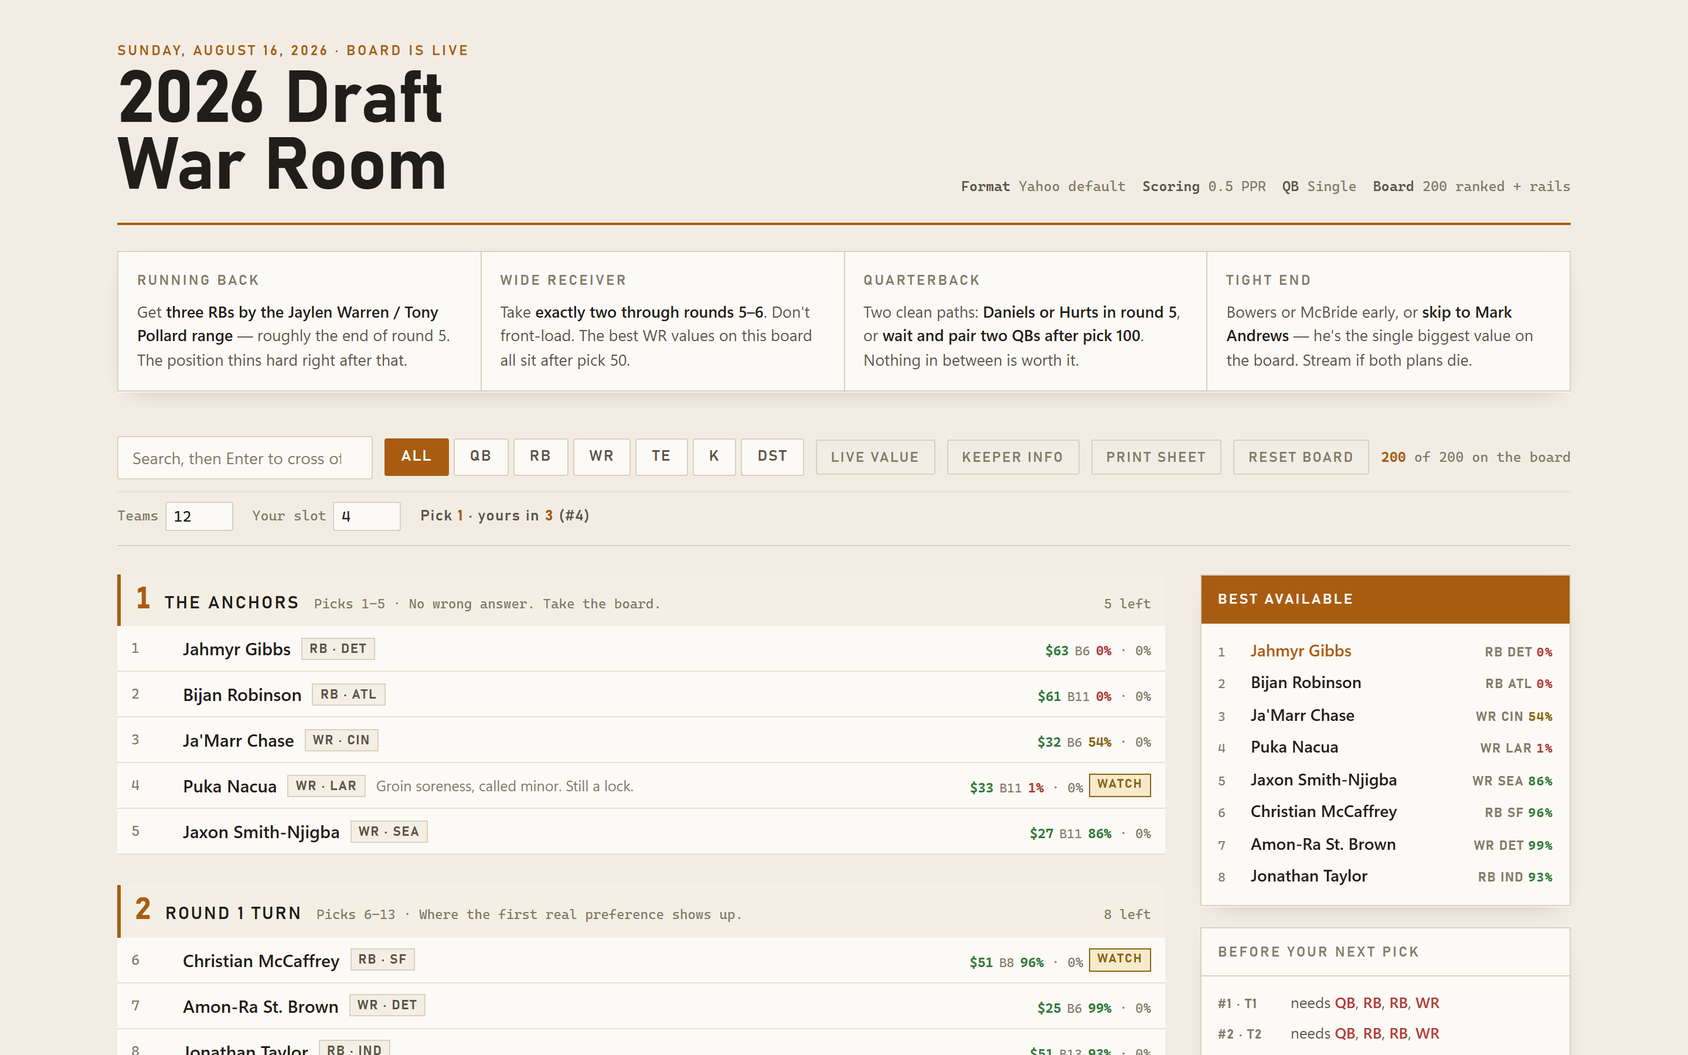
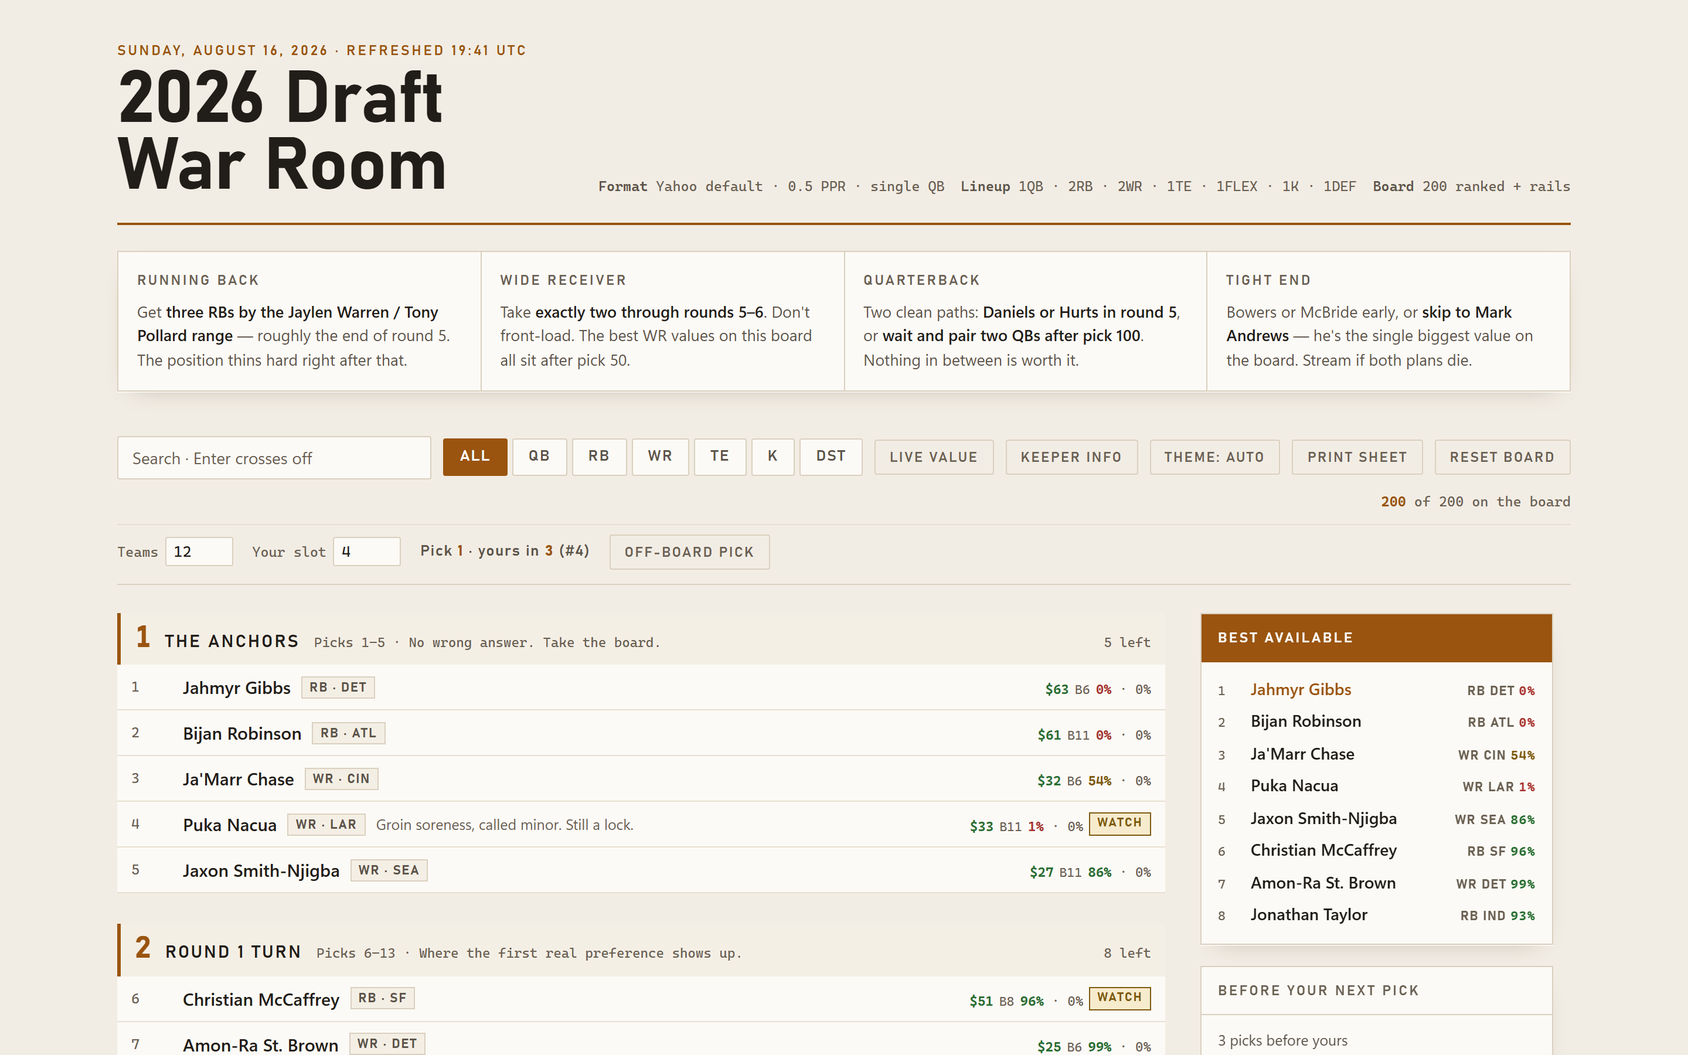
chore(release): v0.2.0

diff --git a/src/fantasyleague/assets/board.js b/src/fantasyleague/assets/board.js
@@ -347,24 +347,42 @@
     var rows = opponentNeeds(current, mine[0]);
     if (!rows.length) { card.hidden = true; return; }
     card.hidden = false;
-    // A position two or more managers still need is the one that will not last.
-    // Early on everyone needs everything, so a slot every listed manager wants
-    // says nothing — the warning is for contention, not for round one.
+    // What matters is how much competition there is for a position before your
+    // turn, not a dozen near-identical lineup dumps. Lead with the demand count;
+    // a position everyone still needs is round-one noise, so it is not a threat.
     var counts = {};
     rows.forEach(function (r) {
       r.open.forEach(function (slot) { counts[slot] = (counts[slot] || 0) + 1; });
     });
-    var contested = function (slot) { return counts[slot] >= 2 && counts[slot] < rows.length; };
-    document.getElementById("opponents").innerHTML = rows.map(function (r) {
+    var demand = Object.keys(counts)
+      .filter(function (slot) { return counts[slot] >= 2 && counts[slot] < rows.length; })
+      .sort(function (a, b) { return counts[b] - counts[a]; });
+    var contested = function (slot) { return demand.indexOf(slot) !== -1; };
+
+    var summary = '<div class="oppsum">' + rows.length + " pick" + (rows.length === 1 ? "" : "s") +
+      " before yours" +
+      (demand.length
+        ? " · " + demand.slice(0, 3).map(function (slot) {
+            return '<b class="hot">' + counts[slot] + " need " + slot + "</b>";
+          }).join(", ")
+        : "") +
+      "</div>";
+
+    var SHOWN = 6;
+    var lines = rows.slice(0, SHOWN).map(function (r) {
       var threat = r.open.some(contested);
       var shown = r.open.slice(0, 4).join("</b>, <b>");
-      var more = r.open.length > 4 ? " +" + (r.open.length - 4) + " more" : "";
+      var more = r.open.length > 4 ? " +" + (r.open.length - 4) : "";
       return '<div class="oppline' + (threat ? " threat" : "") + '">' +
         '<span class="who2">#' + r.pick + " · T" + r.slot + "</span>" +
         '<span class="needs2">' +
         (r.open.length ? "needs <b>" + shown + "</b>" + more : "lineup full") +
         "</span></div>";
-    }).join("");
+    });
+    if (rows.length > SHOWN) {
+      lines.push('<div class="oppmore">… and ' + (rows.length - SHOWN) + " more before your turn</div>");
+    }
+    document.getElementById("opponents").innerHTML = summary + lines.join("");
   }
 
   // Keeper value tracks the age curve: backs fall off a cliff around 28, receivers

diff --git a/src/fantasyleague/assets/board.css b/src/fantasyleague/assets/board.css
@@ -266,6 +266,14 @@ h1 {
 .oppline .needs2 { color: var(--ink-mid); }
 .oppline .needs2 b { color: var(--accent); font-weight: 600; }
 .oppline.threat .needs2 b { color: var(--avoid); }
+/* The headline: how many picks stand between you and your turn, and what they
+   are competing for. The per-pick lines below are the detail. */
+.oppsum {
+  font-size: 12.5px; color: var(--ink-mid); padding-bottom: 6px; margin-bottom: 2px;
+  border-bottom: 1px solid var(--line-soft);
+}
+.oppsum b.hot { color: var(--avoid); font-weight: 700; white-space: nowrap; }
+.oppmore { font-size: 12px; color: var(--ink-dim); padding-top: 2px; }
 .vor {
   font-family: var(--f-data); font-size: 11px; color: var(--accent);
   font-variant-numeric: tabular-nums; white-space: nowrap; font-weight: 700;

diff --git a/tests/test_browser.py b/tests/test_browser.py
@@ -23,14 +23,30 @@ def page_url(tmp_path_factory):
 
 
 @pytest.fixture(scope="module")
-def browser():
+def playwright_ctx():
+    """One sync_playwright context per module — the sync API forbids nesting them."""
     with playwright.sync_playwright() as p:
-        try:
-            b = p.chromium.launch()
-        except Exception as exc:  # noqa: BLE001 - any launch failure means skip
-            pytest.skip(f"chromium unavailable: {exc}")
-        yield b
-        b.close()
+        yield p
+
+
+@pytest.fixture(scope="module")
+def browser(playwright_ctx):
+    try:
+        b = playwright_ctx.chromium.launch()
+    except Exception as exc:  # noqa: BLE001 - any launch failure means skip
+        pytest.skip(f"chromium unavailable: {exc}")
+    yield b
+    b.close()
+
+
+@pytest.fixture(scope="module")
+def firefox(playwright_ctx):
+    try:
+        b = playwright_ctx.firefox.launch()
+    except Exception as exc:  # noqa: BLE001 - not installed is a skip, not a failure
+        pytest.skip(f"firefox unavailable: {exc}")
+    yield b
+    b.close()
 
 
 @pytest.fixture
@@ -628,6 +644,18 @@ def test_cli_settings_win_over_saved_ones_when_they_change(browser, tmp_path):
     ctx.close()
 
 
+def test_opponent_rail_leads_with_demand_and_caps_the_list(page):
+    """Twelve near-identical "needs QB, RB, RB, WR" lines is noise, not signal."""
+    page.locator("#slot").fill("4")
+    for rk in range(1, 9):
+        page.locator(f'.row[data-rk="{rk}"]').click()
+    page.wait_for_selector("#opponentcard:not([hidden])")
+    summary = page.locator("#opponents .oppsum").text_content()
+    assert "before yours" in summary
+    assert page.locator("#opponents .oppline").count() <= 6
+    assert page.locator("#opponents .oppmore").count() == 1
+
+
 def test_rail_marks_entries_that_have_no_row(page):
     """A late-round target below the board's depth can't be crossed off — say so."""
     tags = page.locator("#slp .offboard-tag")
@@ -795,32 +823,51 @@ def test_rail_clears_the_controls_and_scrolls_to_its_last_card(browser, page_url
     ctx.close()
 
 
-def test_board_works_in_a_second_engine(page_url):
+def test_board_works_in_a_second_engine(firefox, page_url):
     """Chromium-only testing would miss engine-specific breakage; Firefox is the check."""
-    with playwright.sync_playwright() as p:
-        try:
-            fx = p.firefox.launch()
-        except Exception as exc:  # noqa: BLE001 - not installed is a skip, not a failure
-            pytest.skip(f"firefox unavailable: {exc}")
-        ctx = fx.new_context(viewport={"width": 1280, "height": 900}, color_scheme="dark")
+    ctx = firefox.new_context(viewport={"width": 1280, "height": 900}, color_scheme="dark")
+    pg = ctx.new_page()
+    errors: list[str] = []
+    pg.on("pageerror", lambda e: errors.append(str(e)))
+    pg.goto(page_url)
+    pg.wait_for_selector(".row")
+    assert pg.locator(".row").count() == 200
+    pg.locator('.row[data-rk="1"]').click()
+    assert pg.locator(".row.gone").count() == 1
+    assert "Bijan" in pg.locator("#bestAvail").text_content()
+    pg.locator("#theme").click()
+    pg.locator("#theme").click()
+    assert pg.evaluate("() => document.documentElement.dataset.theme") == "light"
+    pg.reload()
+    pg.wait_for_selector(".row")
+    assert pg.locator(".row.gone").count() == 1, "state must survive a reload here too"
+    assert errors == []
+    ctx.close()
+
+
+def test_live_sync_works_in_a_second_engine(firefox):
+    """SSE and the same-origin POST guard, in an engine that always sends Origin."""
+    from fantasyleague import serve
+
+    with serve.BoardServer(board.load(), port=0, teams=12, slot=5) as s:
+        ctx = firefox.new_context(color_scheme="dark")
         pg = ctx.new_page()
         errors: list[str] = []
         pg.on("pageerror", lambda e: errors.append(str(e)))
-        pg.goto(page_url)
+        pg.goto(f"http://127.0.0.1:{s.port}/")
         pg.wait_for_selector(".row")
-        assert pg.locator(".row").count() == 200
-        pg.locator('.row[data-rk="1"]').click()
-        assert pg.locator(".row.gone").count() == 1
-        assert "Bijan" in pg.locator("#bestAvail").text_content()
-        pg.locator("#theme").click()
-        pg.locator("#theme").click()
-        assert pg.evaluate("() => document.documentElement.dataset.theme") == "light"
-        pg.reload()
-        pg.wait_for_selector(".row")
-        assert pg.locator(".row.gone").count() == 1, "state must survive a reload here too"
+        pg.wait_for_selector("#livepill:not([hidden])", timeout=5000)
+        s.bus.pick(3, source="sleeper")
+        pg.wait_for_selector('.row[data-rk="3"].gone', timeout=5000)
+        pg.locator('.row[data-rk="9"]').click()
+        pg.wait_for_function("() => true")
+        for _ in range(50):
+            if any(p["rank"] == 9 for p in s.bus.state()["picks"]):
+                break
+            pg.wait_for_timeout(100)
+        assert any(p["rank"] == 9 for p in s.bus.state()["picks"]), "same-origin POST was refused"
         assert errors == []
         ctx.close()
-        fx.close()
 
 
 def _mine_label(page) -> str:

diff --git a/src/fantasyleague/__init__.py b/src/fantasyleague/__init__.py
@@ -1,5 +1,5 @@
 """FantasyLeagueFootball — a draft-day board for Yahoo half-PPR fantasy football."""
 
-__version__ = "0.1.0"
+__version__ = "0.2.0"
 
 __all__ = ["__version__"]

diff --git a/README.md b/README.md
@@ -1,15 +1,15 @@
 # FantasyLeagueFootball
 
-[![Version](https://img.shields.io/badge/version-0.1.0-E8963C.svg)](CHANGELOG.md)
+[![Version](https://img.shields.io/badge/version-0.2.0-E8963C.svg)](CHANGELOG.md)
 [![License](https://img.shields.io/badge/license-MIT-blue.svg)](LICENSE)
 [![Python](https://img.shields.io/badge/python-3.11%2B-3776AB.svg)](pyproject.toml)
 [![Platform](https://img.shields.io/badge/platform-Windows%20%7C%20macOS%20%7C%20Linux-lightgrey.svg)](#install)
-[![Tests](https://img.shields.io/badge/tests-191%20passing-6FBF73.svg)](tests/)
+[![Tests](https://img.shields.io/badge/tests-282%20passing-6FBF73.svg)](tests/)
 [![Dependencies](https://img.shields.io/badge/runtime%20deps-0-6FBF73.svg)](pyproject.toml)
 
 A draft-day board for **Yahoo half-PPR fantasy football**. Renders one self-contained HTML page you keep open on a second screen while you draft — click players off as they go, watch tiers drain, and get warned the moment a tier is about to break.
 
-Ships with a ranked 2026 board — 200 players in 12 tiers — with value/reach flags, a do-not-draft list, a training-camp injury board, and late-round targets. Zero runtime dependencies. No account, no network calls, no telemetry — the page works from `file://` with the Wi-Fi off.
+Ships with a ranked 2026 board — 200 players in 12 tiers — with value/reach flags, a do-not-draft list, a training-camp injury board, and late-round targets. Zero runtime dependencies, no account, no telemetry. The rendered page makes no network calls at all — it works from `file://` with the Wi-Fi off. Only the commands that fetch data (`refresh`, `tiers`, `variant`, `serve --sleeper`) talk to the internet, and all of them use public APIs with no key.
 
 ![Draft board, dark theme](docs/screenshot-dark.png)
 
@@ -19,26 +19,31 @@ Rankings sites give you a list. A list doesn't answer the only question that mat
 
 ![Mid-draft: live value, keeper ages, auction prices, and the managers picking before you](docs/screenshot-mid-draft.png)
 
+On a phone the readouts you need on the clock — best available, your roster, who picks before you — sit above the board rather than below two hundred rows:
+
+![The board on a phone](docs/screenshot-phone.png)
+
 ## Features
 
-- **One file, works offline.** `fantasyleague build` writes `dist/draft-board.html` (~37 KB) with all CSS/JS inlined and the dataset embedded. Open it anywhere.
+- **One file, works offline.** `fantasyleague build` writes `dist/draft-board.html` (~140 KB) with all CSS/JS inlined and the dataset embedded. Open it anywhere.
 - **Click to cross off.** Every row is a button. State is saved in the browser as an ordered pick log, so a refresh mid-draft doesn't lose your place. Every action — including Reset — shows a toast with **Undo**.
-- **Your roster.** Claim your picks (automatic once the board knows your slot) and a rail card fills Yahoo's default lineup, tells you what's still open, and warns when three of your players share a bye week.
+- **Your roster.** Claim your picks (automatic once the board knows your slot) and a rail card fills the lineup your board is built for — Yahoo's default, or two QB slots on a superflex board — tells you what's still open, and warns when three of your players share a bye week. In live mode the claim lives on the server, so a reload or a dropped connection doesn't lose it.
 - **Run detection.** Three of the last four picks at one position marks that position's chip with *run* — the moment to decide whether to join it or let it pass.
 - **Tier-break warnings.** Each tier header shows how many are left and lights up at two.
 - **Best available** updates as you go, overall or filtered to one position.
 - **Will he last?** Enter your league size and slot and every player shows the odds of surviving to your next two picks (`73% · 4%`), banded *wait* / *toss-up* / *now*. The controls bar tracks the pick on the clock and how far away yours is.
-- **Position filters (QB/RB/WR/TE/K/DST) + name search** so you can answer "best RB left?" in one tap. Type a name and press Enter to cross off the match without touching the mouse.
+- **Position filters (QB/RB/WR/TE/K/DST) + name search** so you can answer "best RB left?" in one tap. Punctuation is ignored, so "jamarr" finds Ja'Marr Chase. Type a name and press Enter to cross off the match without touching the mouse.
 - **Live value.** One toggle re-sorts each tier by value over replacement against the remaining pool — the number that actually moves when a position dries up.
 - **Before your next pick.** Every manager drafting ahead of you, and the slots they still need. Two of them needing the same position is your warning.
 - **Keeper info** toggle showing age and experience, coloured against each position's age cliff — the context a keeper or dynasty league drafts on.
 - **Auction values** on every row, priced from real projections against your budget — VBD over a bench-depth baseline so the money spreads the way a real auction does.
 - **Value / Reach / Watch flags** on rows — Yahoo ADP versus Yahoo's own projected finish, plus active injury notes.
 - **Rails:** positional plan for the draft, do-not-draft list with reasons, injury board with severity, trending adds from the last 24 hours, late-round targets.
-- **Refreshable.** `fantasyleague refresh` pulls current ADP, bye weeks, injury designations, and trending adds — no key, cached for a day, degrades to cache offline.
-- **Dark-first, light-aware.** Follows `prefers-color-scheme` and honors an explicit `data-theme` toggle. Reduced-motion respected. Focus states and `aria-pressed` on every control; a polite live region announces cross-offs, best available, and tier breaks to screen readers.
+- **Refreshable.** `fantasyleague refresh` pulls current ADP, bye weeks, season projections, auction values, injury designations, keeper ages and trending adds — no key, cached for a day, degrades to cache offline.
+- **Off-board picks.** When someone takes a player this board doesn't rank, one button keeps the pick count — and therefore "your pick", the odds and the opponent rail — honest. Sleeper sync records them automatically.
+- **Dark-first, light-aware.** A **Theme** button switches auto / dark / light and is remembered; the palette also follows `prefers-color-scheme` and an explicit `data-theme`. Both themes meet WCAG AA on every surface. Reduced-motion respected. Focus states and `aria-pressed` on every control; a polite live region announces cross-offs, best available, and tier breaks to screen readers.
 - **Print sheet.** One button (or Ctrl+P) turns the board into a compact three-column greyscale cheat sheet — flags as glyphs, crossed-off players struck through.
-- **Second screen on your phone.** `fantasyleague serve --host 0.0.0.0` puts the board on your LAN; every tab and device stays in sync, and the screen won't sleep mid-draft.
+- **Second screen on your phone.** `fantasyleague serve --host 0.0.0.0` puts the board on your LAN; every tab and device stays in sync, the screen won't sleep mid-draft, and the phone layout leads with the readouts you need on the clock. A pick that fails to reach the server is reported and replayed rather than silently lost.
 - **Terminal CLI** over the same data: `list`, `values`, `next --drafted …` for best available and tier breaks without a browser.
 - **Bring your own board.** Any JSON matching the packaged file works; it's validated on load so a bad edit fails loudly instead of rendering holes.
 
@@ -75,7 +80,7 @@ If `fantasyleague` isn't on your PATH (common on Windows), `python -m fantasylea
 | `fantasyleague build [-o PATH] [--title T] [--league NAME] [--teams N] [--slot S] [--open]` | Render the board. Default output `dist/draft-board.html`. `--league` shows the name in the header and keeps that board's saved picks separate from other boards in the same browser; `--teams`/`--slot` pre-fill the pick-odds settings (editable on the page). |
 | `fantasyleague list [--pos QB\|RB\|WR\|TE\|K\|DST\|ALL] [--flag value\|avoid\|watch] [--limit N]` | The board as a table. |
 | `fantasyleague values` | Value picks, reaches, and the do-not-draft list. |
-| `fantasyleague refresh [-o PATH] [--force] [--reflag] [--no-adp] [--no-trending]` | Pull current ADP + spread + byes (Fantasy Football Calculator) and rebuild the injury board and trending rail (Sleeper). Caches for 24h; works offline from cache. |
+| `fantasyleague refresh [-o PATH] [--force] [--reflag] [--no-adp] [--no-projections] [--no-trending] [--adp-format F] [--teams N] [--budget N] [--roster-size N] [--hours N] [--trending-limit N] [--limit N]` | Pull current ADP + spread + byes (Fantasy Football Calculator), season projections and auction values (Sleeper), then rebuild the injury board, keeper ages and trending rail. Caches for 24h; works offline from cache. Without `-o` it rewrites the dataset in place. |
 | `fantasyleague next [--drafted PLAYER …] [--pos …] [--limit N] [--teams N --slot S [--pick P]]` | Best available given who's gone (ranks or names — `gibbs`, `"ja'marr"`, `4`), plus any tier down to its last two and a remaining-by-position count. With `--slot`, adds your next picks and each player's odds of surviving to them. |
 | `fantasyleague serve [--host H] [--port P] [--league NAME] [--teams N] [--slot S] [--sleeper ID] [--every S] [--open]` | Serve the board with live sync. Every open tab and device shares one pick log. `--host 0.0.0.0` exposes it to your LAN for phone use; `--sleeper` follows a live Sleeper draft. |
 | `fantasyleague export [-o PATH] [--pos …] [--flag …]` | Write the board as CSV — stdout by default. |
@@ -199,14 +204,14 @@ Validation on load rejects: ranks that aren't exactly `1..N` (gaps or duplicates
 
 ## Theming
 
-Dark is the default. The page defines a complete light palette too and picks one three ways: the OS setting via `prefers-color-scheme`, or an explicit `data-theme="dark"|"light"` on `<html>` if a host page sets one. Every color is a token; nothing is defined only inside a media query, so neither theme can end up with the other theme's text.
+Dark is the default. The page defines a complete light palette too and picks one three ways: the **Theme** button on the board (auto / dark / light, remembered with your draft settings), the OS setting via `prefers-color-scheme`, or an explicit `data-theme="dark"|"light"` on `<html>` if a host page sets one. Every color is a token; nothing is defined only inside a media query, so neither theme can end up with the other theme's text. Both palettes meet WCAG AA for text on every surface, and a test fails if either drifts below it.
 
 ## Development
 
 ```bash
 pip install -e ".[dev]"
 python -m playwright install chromium   # only needed for the browser tests
-pytest                                  # 191 tests
+pytest                                  # 282 tests
 ruff check .
 python -m build                         # wheel + sdist into dist/
 ```
@@ -217,7 +222,7 @@ What the tests cover:
 - **Draft-time queries** — best available skips drafted players and respects position; tier breaks fire at the threshold and ignore empty tiers.
 - **Render** — output is a complete document, fully inlined, no external requests, both themes defined, no leftover template tokens, `</script>` in the data can't break the page, version stamped.
 - **DOM contract** — every element ID `board.js` queries exists in the template; every flag has a label; every severity has a style; the tier-break threshold matches between Python and JS.
-- **Real browser** (Playwright, skipped if unavailable) — 75 rows render with zero JS errors, click toggles `aria-pressed` and updates best available, tier break appears at two left, state survives a reload, position filter and reset work, light theme paints its own background.
+- **Real browser** (Playwright, skipped if unavailable) — 200 rows render with zero JS errors in both Chromium and Firefox; click toggles `aria-pressed` and updates best available; tier breaks fire at two left; state and roster claims survive a reload, including in live mode; the phone layout puts the live readouts above the board; the toast keeps Undo reachable; contrast tokens meet AA; a `<!--<script>` in the data cannot blank the page.
 
 Project layout:
 
@@ -229,17 +234,15 @@ src/fantasyleague/
   render.py                  token replacement into the HTML template
   cli.py                     argparse front end
   assets/board.{html.template,css,js}
-tests/                       42 tests across data, queries, render, DOM contract, browser
+tests/                       282 tests across data, queries, render, DOM contract, browser
 docs/                        README screenshots
 ```
 
-## Roadmap
+## Known limitations
 
-[ROADMAP.md](ROADMAP.md) is the single task tracker. Headline items: snake-draft awareness (your next pick + odds a player survives to it), a local `serve` mode with live sync from Sleeper's public API and Yahoo's OAuth draft results, K/DST and bye weeks, roster tracking, a print stylesheet, and four P0 fixes queued from the 2026-08-16 research pass.
-
-## Known limitations (v0.0.1)
-
-- Yahoo live sync isn't wired up yet (Sleeper is) — it needs a Yahoo Developer app.
+- Yahoo live sync isn't wired up (Sleeper is) — it needs a Yahoo Developer app.
+- `refresh` without `-o` writes back into the installed package, so a `pip install --upgrade` replaces your refreshed data with the packaged board. Pass `-o my-board.json` and use `--data my-board.json` to keep it.
+- The screen-reader announcements and iOS Safari behaviour are built to spec but have not been verified on real assistive tech or a physical iPhone.
 
 ## License
 

diff --git a/CHANGELOG.md b/CHANGELOG.md
@@ -4,7 +4,7 @@ All notable changes to this project are documented here.
 Format follows [Keep a Changelog](https://keepachangelog.com/en/1.1.0/);
 versioning follows [Semantic Versioning](https://semver.org/spec/v2.0.0.html).
 
-## [Unreleased]
+## [0.2.0] — 2026-08-16
 
 ### Accessibility
 - Secondary text meets WCAG AA on every surface in both themes. Player notes, tier
@@ -323,5 +323,6 @@ Initial release.
 - README screenshots (dark, light, mid-draft) captured from the rendered board.
 - Published to GitHub: https://github.com/SysAdminDoc/FantasyLeagueFootball
 
+[0.2.0]: https://github.com/SysAdminDoc/FantasyLeagueFootball/releases/tag/v0.2.0
 [0.1.0]: https://github.com/SysAdminDoc/FantasyLeagueFootball/releases/tag/v0.1.0
 [0.0.1]: https://github.com/SysAdminDoc/FantasyLeagueFootball/releases/tag/v0.0.1
